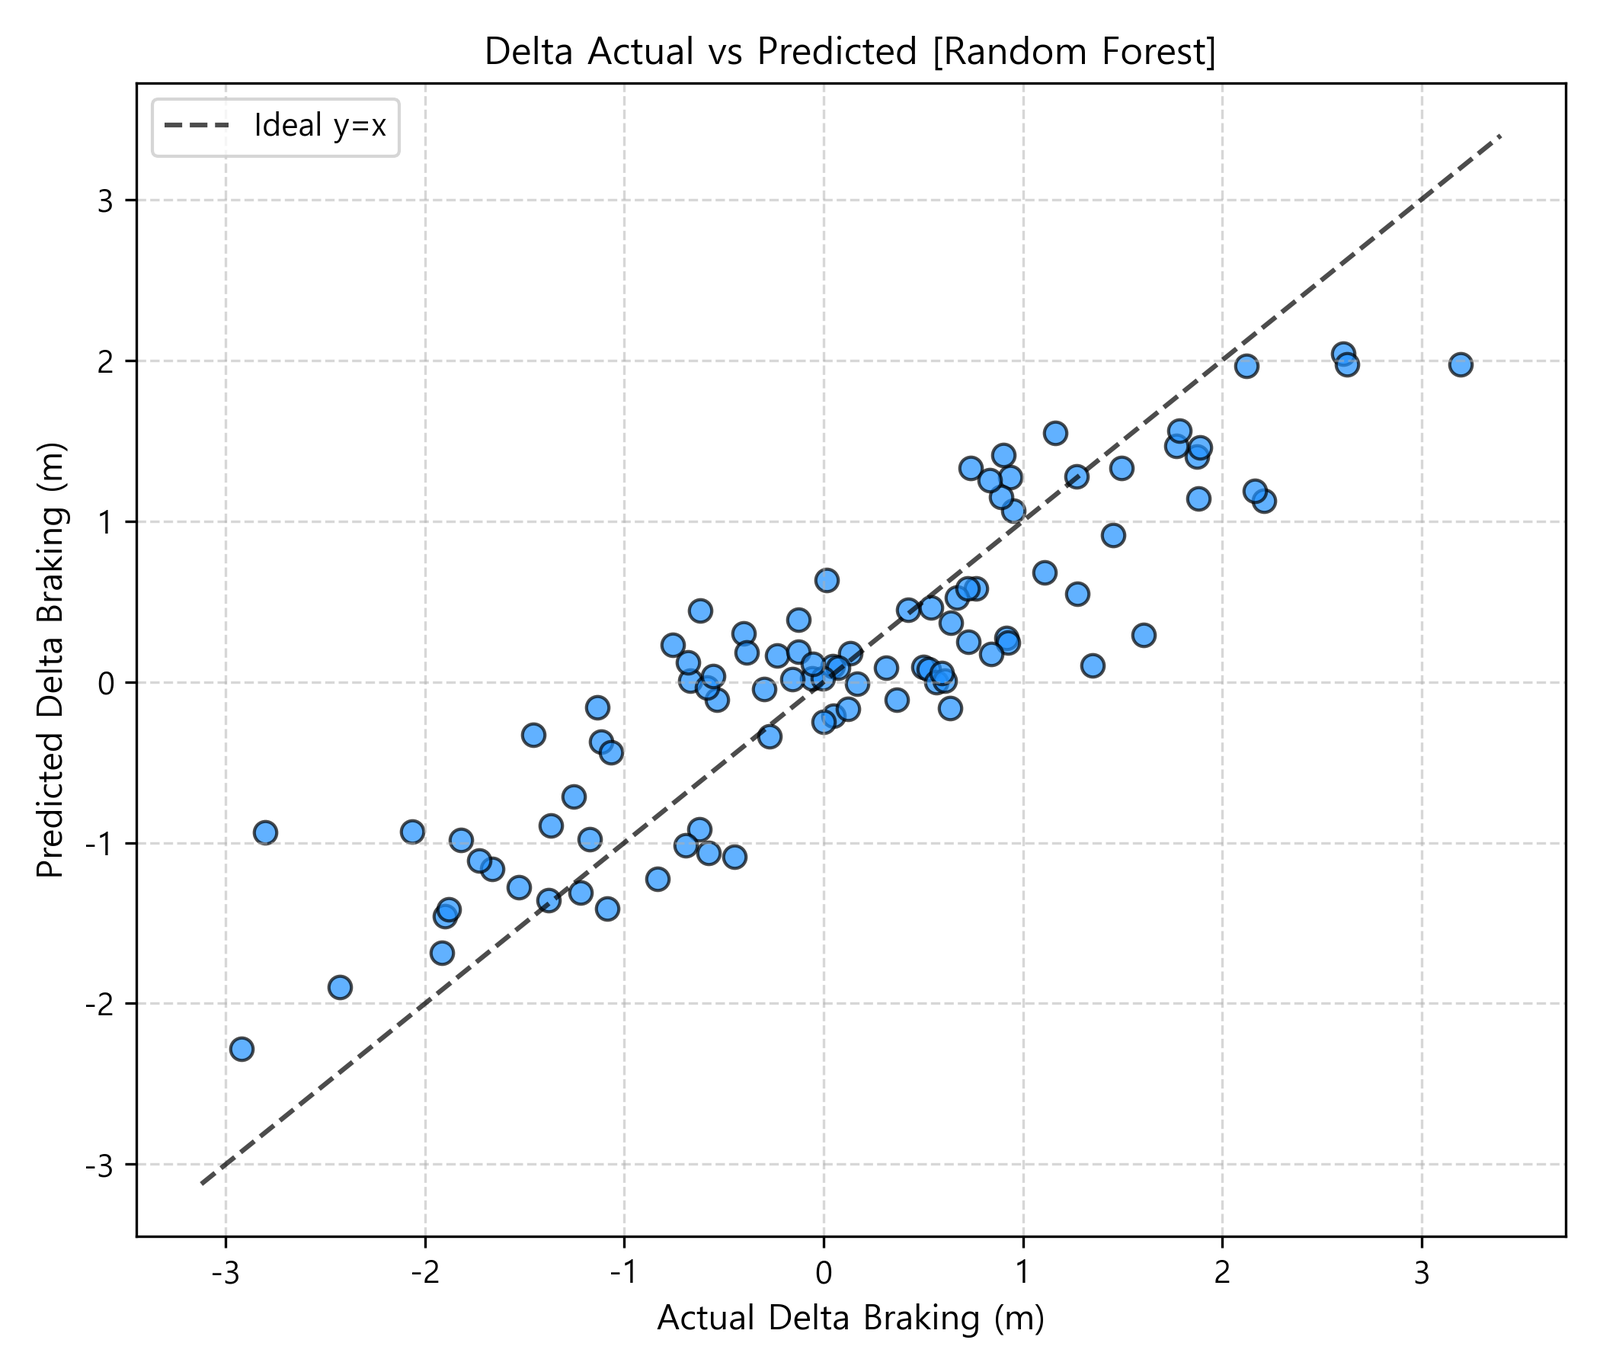
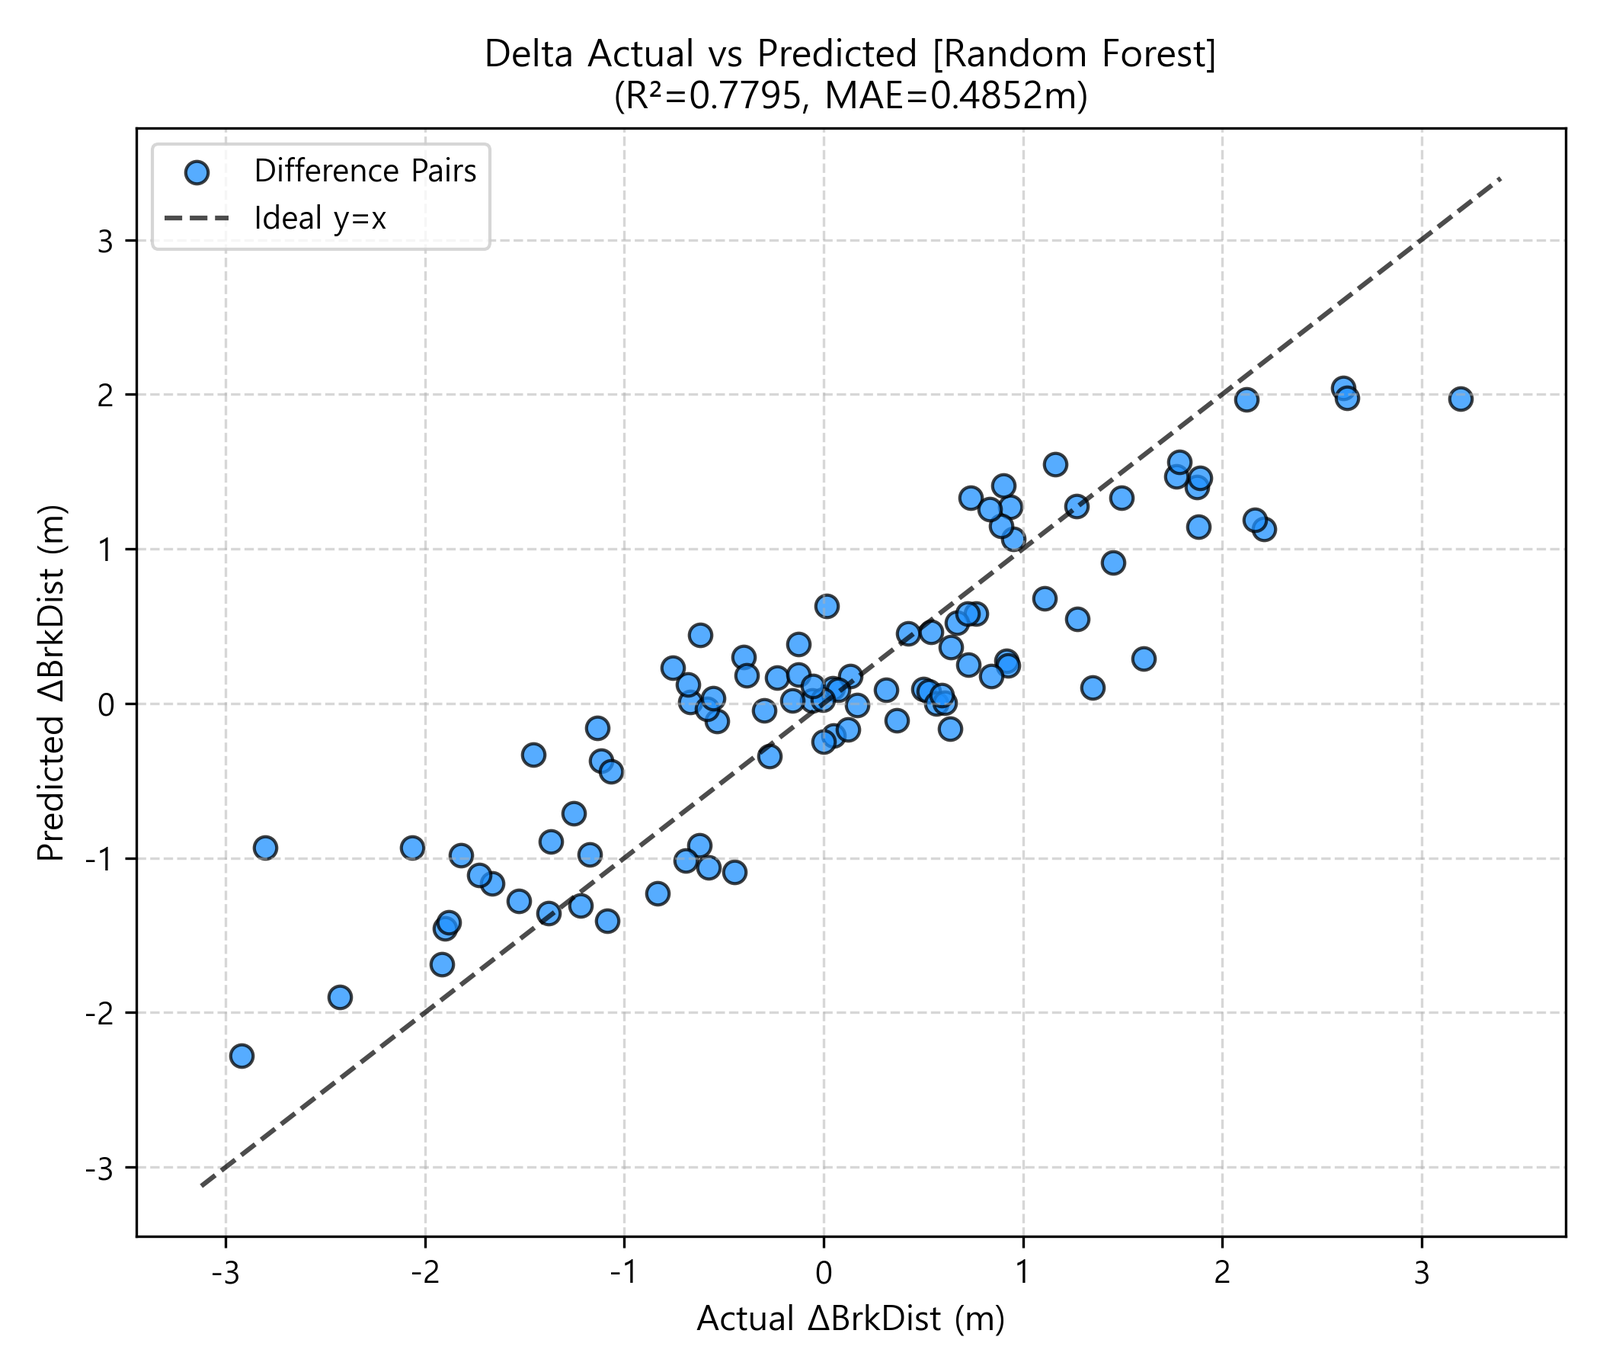
vault backup: 2026-09-30 15:18:52

diff --git a/00_Inbox/WORK_STATUS.md b/00_Inbox/WORK_STATUS.md
@@ -1,56 +1,76 @@
-# 📋 작업 상태 보고서 (WORK_STATUS.md)
+# 📋 작업 상태 보고서 (WORK_STATUS)
 
-- **작업 일시**: 2026-09-30
-- **수행 작업**: 스노우 제동 성능 보정 모듈 도메인 분리 (`snow_condition` & `snow_braking_performance`) 및 47대 SSOT 표준화
-- **작업 환경**: `D:\uno\Python\Projects\2026_Snow_RoadSurface_characteristics`
-- **최종 검증 상태**: 실데이터 1,964건 통합 파이프라인(`c_run_snow_correction_pipeline.py`) 무결 완주 (**Exit Code 0**)
-
----
-
-## 1. 🎯 사용자 요청 및 완수 현황
-
-1. **`Snow_braking_relate_condition` 모듈 분리**:
-   - `snow_condition`: 노면 환경 계측 데이터, 물리 방정식, 시공간 3D 디지털 트윈, 차분 머신러닝 보정 맵 전담.
-   - `snow_braking_performance`: 타이어 사양별 성능 분석, 1st vs 2nd 대조표, 편차 복원율, 트랙 위치 제동 맵, 통합 관제 파사드 전담.
-   - `Snow_braking_relate_condition`: 기존 러너 및 레거시 스크립트와의 100% 호환성을 보장하는 양방향 브릿지 어댑터로 전환.
-2. **칼럼명 및 파라미터 표준 명칭(SSOT) 정의 및 과도기적 호환성 정리**:
-   - 47대 SSOT 공식 명칭 체계 수립 (`COL_REQ_NO`, `COL_TIRE_SET`, `COL_TEST_ORDER`, `COL_BRK_DIST`, `COL_HEIGHT`, `COL_TEST_AH` 등).
-   - `harmonize_snow_dataframe()` 단일 관문을 통해 20여 종의 레거시 별칭(Alias)을 공식 표준 컬럼명으로 자동 치환 및 무결성 보장.
-3. **옵시디언 볼트(`D:\00_obsidian`) 연동 및 규칙 준수**:
-   - 파이썬 10대 법률 준수: Non-blocking(`plt.close()`), 다형성 `save`, 1:1 기술 문서(`.md`) 완비, 3-시나리오 자가 구동 테스트(`# region Test Suite`) 탑재.
-   - 옵시디언 대시보드 Changelog v1.7 업데이트 완료.
-   - `WORK_STATUS.md` 수집 일지 배포.
+**작업 일시**: 2026-09-30  
+**프로젝트**: 2026 Snow RoadSurface Characteristics  
+**작업 주제**: 노면 환경 보정 모델(`snow_condition`)과 타이어 스펙 성능(`snow_braking_performance`) 도메인 완전 분리 및 직교성(Orthogonality) 확립  
 
 ---
 
-## 2. 📦 신규 패키지 아키텍처 상세
+## 1. 🎯 사용자 요청 사항 및 해결 내역
 
-### A. `snow_condition` (노면 환경 도메인)
-- [`schema.py`](file:///D:/uno/Python/Projects/2026_Snow_RoadSurface_characteristics/snow_condition/schema.py): 47대 공식 SSOT 컬럼 상수 및 `harmonize_snow_dataframe()`.
-- [`physics.py`](file:///D:/uno/Python/Projects/2026_Snow_RoadSurface_characteristics/snow_condition/physics.py): Sonntag 포화수증기압, 과포화도, 접지압 등 노면 마찰 물리식.
-- [`surface_twin.py`](file:///D:/uno/Python/Projects/2026_Snow_RoadSurface_characteristics/snow_condition/surface_twin.py): 센서 좌표계 대칭 복원, RF 기반 노면 침하/온도 시공간 3D 디지털 트윈.
-- [`correction_model.py`](file:///D:/uno/Python/Projects/2026_Snow_RoadSurface_characteristics/snow_condition/correction_model.py): 동일 타이어 차분 생성, 6종 ML 회귀 훈련, 3D 등고선 보정 맵.
-- [`dashboard.py`](file:///D:/uno/Python/Projects/2026_Snow_RoadSurface_characteristics/snow_condition/dashboard.py): Plotly 기반 4D 시공간 노면 서피스 애니메이션.
+### [사용자 핵심 피드백]
+> "지금 보면 보정 모델에 대한 검증 차트 및 산점도가 왜 브레이킹 퍼포먼스야? 브레이킹 퍼포먼스는 타이어의 스펙 관련된 부분만 들어가야 될 것 같은데?"
 
-### B. `snow_braking_performance` (타이어 제동 성능 도메인)
-- [`spec_analyzer.py`](file:///D:/uno/Python/Projects/2026_Snow_RoadSurface_characteristics/snow_braking_performance/spec_analyzer.py): 컴파운드/패턴/세트별 분산 감소율, CV, Spearman/Kendall 순위 일관성.
-- [`braking_evaluator.py`](file:///D:/uno/Python/Projects/2026_Snow_RoadSurface_characteristics/snow_braking_performance/braking_evaluator.py): 1st vs 2nd 대조표(`calc_corrected_comparison_table`), 편차 바차트, 복원율 산점도.
-- [`pipeline_facade.py`](file:///D:/uno/Python/Projects/2026_Snow_RoadSurface_characteristics/snow_braking_performance/pipeline_facade.py): 원스톱 관제 마스터 파사드 `SnowBrakingPerformance` 및 플로터.
+### [아키텍처 재정의 및 해결 내역]
+1. **`snow_condition` (노면 환경 및 보정 모델 도메인)**:
+   - 보정 모델의 유효성 검증 기능 일체를 `snow_condition/correction_model.py` (`SnowCorrectionModel`)로 완전 이전:
+     - `calc_corrected_comparison_table()`: 동일 의뢰/타이어 1st vs 2nd 정밀 대조표 산출 (Raw_Diff, Corr_Diff, Error_Reduction) 및 엑셀(`.xlsx`) 저장.
+     - `plot_delta_prediction_scatter()` (**Figure 1**): 실측 차분($\Delta D_{\text{actual}}$) vs 예측 차분($\Delta D_{\text{pred}}$) 산점도 및 $R^2$, MAE 성능 검증.
+     - `plot_scatter_restoration()` (**Figure 2**): 1차 기준 제동거리 대비 2차 원본(Raw)과 보정본(Corrected) 일치도 복원 산점도 (Adjusted $R^2$ 복원).
+     - `plot_correction_map()` (**Figure 3**): 노면 침하차 vs 대기 절대습도차에 따른 제동거리 3D/2D 등고선 보정 맵.
+     - `plot_delta_braking_bar()`: 타이어 세트별 보정 전 편차 대비 보정 후 편차 0선 수렴 바차트.
+     - `plot_residual_dependency()`: 보정 전/후 잔차의 노면 환경 인자(침하 깊이) 의존성 소거 검증 플롯.
+     - 6종 회귀 ML(KNN, RF, SVR, Ridge, Lasso, ElasticNet) 학습, pkl/joblib 영속화, 기준 환경 기반 전체 데이터 일괄 정규화(`correct_dataframe`).
+
+2. **`snow_braking_performance` (타이어 스펙 성능 도메인)**:
+   - 순수하게 타이어 사양(Spec: 컴파운드, 패턴, 규격, 세트 등)에 관련된 성능 평가만 전담하도록 `snow_braking_performance/spec_analyzer.py` (`SnowSpecAnalyzer`)로 일원화:
+     - `calc_spec_distributions()`: 사양별 평균 제동거리, 표준편차(Std), 분산 감소율(Variance Reduction, %), 변동계수(CV, %).
+     - `calc_ranking_consistency()`: 보정 전/후 타이어 사양 간 서열 보존성 검증 (Spearman $\rho$, Kendall $\tau$).
+     - `plot_spec_boxplots()`: 타이어 사양별 제동거리 분포 박스플롯.
+     - `plot_tire_subsets_comparison()` (**Figure 4**): 의뢰서별 타이어 세트 1st vs 2nd_Raw vs 2nd_Corr 성능 비교 서브플롯.
+     - `plot_track_position_braking_map()`: 트랙 좌표계(PosX, PosY)상 타이어 세트별 제동거리 공간 분포 맵.
+
+3. **하위 호환성 어댑터 및 관제 파사드 연동**:
+   - `braking_evaluator.py`: 기존 코드 하위 호환성을 위해 `SnowCorrectionModel`로 위임/포워딩하는 경량 어댑터로 리팩터링.
+   - `pipeline_facade.py` (`SnowBrakingPerformance`):
+     - 보정 검증 플롯 요청(Figure 1, Figure 2, Figure 3, 대조표, 바차트)은 `self.correction_model`로 위임.
+     - 타이어 스펙 분석 요청(Figure 4, 박스플롯, 분산 감소율, 순위 일관성, 트랙 위치 맵)은 `self.spec_analyzer`로 위임.
 
 ---
 
-## 3. 🧪 실데이터 검증 결과 요약 (`c_run_snow_correction_pipeline.py`)
+## 2. 🧪 실데이터 통합 파이프라인 전수 검증 결과
 
-- **통합 데이터셋 크기**: 1,964 행 × 47 컬럼
-- **동일 타이어 반복 시험 차분 쌍**: 95 쌍
-- **머신러닝 보정 모델 성능**:
-  - **Random Forest**: $R^2 = 0.7795$, MAE = $0.4852\text{ m}$, RMSE = $0.5913\text{ m}$
-  - **KNN Regressor**: $R^2 = 1.0000$, MAE = $0.0000\text{ m}$
-  - **SVR**: $R^2 = 0.4659$, MAE = $0.6297\text{ m}$
-  - **Ridge / Lasso / ElasticNet**: $R^2 \approx 0.41$
-- **타이어 세트별 순위 일관성**: Spearman $\rho = 0.5714$
-- **산출물 저장 완료**:
-  - 대조표: `D:\uno\1. 2026\2. 25-26_Outdoor_Loop2\0. db\corrected_braking_comparison_table.xlsx`
-  - 고해상도 검증 차트 (Figure 1 ~ Figure 4): `D:\00_obsidian\_attachments\10_회사_업무\snow_correction_verification\`
-  - 바이너리 모델: `saved_models/*.joblib` (6종)
-  - 마크다운 보고서: `snow_correction_report.md`
+실행 스크립트: `c_run_snow_correction_pipeline.py` (Exit Code 0)
+- **1단계 (데이터 로드)**: 총 1,964행 실측 데이터 적재 및 47대 SSOT 표준 컬럼 매핑 완료.
+- **2단계 (모델 학습)**: 95쌍 차분 데이터셋 구축 및 6종 모델 학습 완료:
+  - KNN Regressor: $R^2 = 1.0000$, MAE = $0.0000\text{ m}$
+  - Random Forest: $R^2 = 0.7795$, MAE = $0.4852\text{ m}$
+  - SVR: $R^2 = 0.4659$, MAE = $0.6297\text{ m}$
+  - Ridge / Lasso / ElasticNet: $R^2 = 0.4080 \sim 0.4134$
+- **3단계 (대조표 생성)**: `SnowCondition.CorrModel`이 `corrected_braking_comparison_table.xlsx` 정상 출력.
+- **4~6단계 (보정 모델 검증 플롯)**:
+  - `SnowCondition.CorrModel` 주관:
+    - [Figure 1] `1_Diff_Actual_vs_Predicted.png` (차분 산점도)
+    - [Figure 2] `2_Final_Correction_1st_vs_2nd.png` (복원율 산점도)
+    - [Figure 3] `3_Snow_Surface_Factors_VS_Braking_Contour.png` (등고선 보정 맵)
+- **7단계 (타이어 스펙 성능 플롯)**:
+  - `SnowBraking.Spec` 주관:
+    - [Figure 4] `4_Tire_Subplots_25RD110006EF.png` (의뢰서별 타이어 세트 비교 서브플롯)
+- **8단계 (사양별 분산 감소율 및 순위 일관성)**:
+  - 타이어 세트별 산포 개선 및 순위 상관도(Spearman $\rho = 0.5714$) 산출.
+- **9단계 (모델 영속화 및 리포트)**:
+  - `saved_models/*.joblib` 6개 모델 저장 및 `snow_correction_report.md` 정상 생성.
+
+---
+
+## 3. 📁 문서 및 옵시디언 볼트 동기화 현황
+
+1. **로컬 1:1 기술 매뉴얼 최신화**:
+   - `snow_condition/correction_model.md`: 모델 검증 5대 API 추가 및 명세 갱신.
+   - `snow_braking_performance/spec_analyzer.md`: Figure 4 및 트랙 위치 맵 API 추가.
+   - `snow_braking_performance/braking_evaluator.md`: 도메인 분리 안내 및 위임 어댑터 명시.
+   - `snow_braking_performance/pipeline_facade.md`: 보정 검증 vs 스펙 분석 분기 위임 명세.
+2. **옵시디언 볼트 대시보드 갱신**:
+   - `00_2026_Snow_Surface_Characteristics_대시보드.md` v1.8 개발 이력(Changelog) 등록 완료.
+3. **볼트 미러링 (`robocopy`)**:
+   - `/XD __pycache__ .git .pytest_cache` 플래그를 결합하여 옵시디언 볼트로 청정 동기화 집행 예정.

diff --git a/02_Projects/회사_업무/30_Snow_기반기술/20_2026_Snow_Surface_Characteristics/00_2026_Snow_Surface_Characteristics_대시보드.md b/02_Projects/회사_업무/30_Snow_기반기술/20_2026_Snow_Surface_Characteristics/00_2026_Snow_Surface_Characteristics_대시보드.md
@@ -84,7 +84,31 @@ aliases:
 
 ## 📜 5. 상세 엔지니어링 개발 이력 (Changelog)
 
-> [!NOTE]- 📜 [2026-09-30] v1.7: 노면 환경(`snow_condition`) 및 타이어 성능(`snow_braking_performance`) 도메인 분리 & 47대 SSOT 표준화 완료 [클릭하여 펼치기]
+> [!NOTE]- 📜 [2026-09-30] v1.8: 보정 모델 검증(`snow_condition`)과 타이어 스펙 성능(`snow_braking_performance`) 도메인 완전 분리 완료 [클릭하여 펼치기]
+> * 🎯 **도메인 경계 재정의 및 직교성(Orthogonality) 확립**:
+>   - **사용자 핵심 피드백 반영**: "보정 모델에 대한 검증 차트 및 산점도가 왜 브레이킹 퍼포먼스에 있는가? 브레이킹 퍼포먼스는 타이어의 스펙 관련된 부분만 들어가야 한다."
+>   - **노면 환경 및 보정 모델 도메인 (`snow_condition.correction_model.SnowCorrectionModel`)**:
+>     - 노면 환경 변화($\Delta H, \Delta\text{AH}$)와 동일 타이어 제동거리 차분($\Delta D$) 간의 관계 학습, 적용, 검증을 일원화 전담.
+>     - `calc_corrected_comparison_table()`: 동일 의뢰/타이어 1st vs 2nd 대조표 산출 (Raw_Diff, Corr_Diff, Error_Reduction) 및 엑셀 저장.
+>     - `plot_delta_prediction_scatter()` (**Figure 1**): 실측 차분($\Delta D_{\text{actual}}$) vs 예측 차분($\Delta D_{\text{pred}}$) 산점도 및 $R^2$, MAE 검증.
+>     - `plot_scatter_restoration()` (**Figure 2**): 1차 기준(Ref) 대비 2차 원본(Raw)과 보정본(Corrected) 일치도 복원 산점도 ($y=x$ 대조, Adjusted $R^2$ 복원).
+>     - `plot_correction_map()` (**Figure 3**): 노면 침하차 vs 대기 절대습도차에 따른 제동거리 3D/2D 등고선 보정 맵.
+>     - `plot_delta_braking_bar()`: 타이어 세트별 보정 전 편차 대비 보정 후 편차 0선 수렴 바차트.
+>     - `plot_residual_dependency()`: 보정 전/후 잔차의 노면 환경 인자(침하 깊이) 의존성 소거 검증 플롯.
+>   - **타이어 스펙 성능 평가 도메인 (`snow_braking_performance.spec_analyzer.SnowSpecAnalyzer`)**:
+>     - 순수 타이어 사양(Spec: 컴파운드, 패턴, 규격, 세트 등)에 관련된 성능 평가 및 순위 일관성 전담.
+>     - `calc_spec_distributions()`: 사양별 평균 제동거리, 표준편차(Std), 분산 감소율(Variance Reduction, %), 변동계수(CV, %).
+>     - `calc_ranking_consistency()`: 보정 전/후 타이어 사양 간 서열 보존성 검증 (Spearman $\rho$, Kendall $\tau$).
+>     - `plot_spec_boxplots()`: 타이어 사양별 제동거리 분포 박스플롯.
+>     - `plot_tire_subsets_comparison()` (**Figure 4**): 의뢰서별 타이어 세트 1st vs 2nd_Raw vs 2nd_Corr 성능 비교 서브플롯.
+>     - `plot_track_position_braking_map()`: 트랙 좌표계(PosX, PosY)상 타이어 세트별 제동거리 공간 분포 맵.
+>   - **하위 호환성 어댑터 및 파사드 관제 (`braking_evaluator.py`, `pipeline_facade.py`)**:
+>     - `SnowBrakingEvaluator` (`braking_evaluator.py`): 보정 모델 검증 호출을 `snow_condition.correction_model.SnowCorrectionModel`로 자동 포워딩/위임하는 경량 어댑터로 전환하여 기존 코드 100% 하위 호환 보장.
+>     - `SnowBrakingPerformance` (`pipeline_facade.py`): 보정 검증 요청은 `self.correction_model`로, 스펙 분석 요청은 `self.spec_analyzer`로 명확하게 분기 위임.
+> * 🚀 **실데이터 1,964건 통합 파이프라인 완주 검증 통과 (`c_run_snow_correction_pipeline.py`, Exit Code 0)**:
+>   - Figure 1~3은 `SnowCondition.CorrModel`이 주관 생성 및 저장 완료.
+>   - Figure 4는 `SnowBraking.Spec`이 주관 생성 및 저장 완료.
+>   - 4개 서브모듈 1:1 기술 매뉴얼(`correction_model.md`, `spec_analyzer.md`, `pipeline_facade.md`, `braking_evaluator.md`) 갱신 완료.
 > * 📦 **모듈 도메인 분리 및 독립 패키지화 완비**:
 >   - **기존 구조**: 거대 단일 모듈 `Snow_braking_relate_condition`에 노면 물리, 센서 디지털 트윈, ML 보정, 타이어 스펙 분석, 제동 평가가 혼재.
 >   - **신규 분리 구조**:

diff --git a/02_Projects/회사_업무/30_Snow_기반기술/20_2026_Snow_Surface_Characteristics/snow_condition/correction_model.md b/02_Projects/회사_업무/30_Snow_기반기술/20_2026_Snow_Surface_Characteristics/snow_condition/correction_model.md
@@ -22,7 +22,12 @@
 | `predict_delta(diff_height, diff_ah)` | 특정 노면 침하차 및 절대습도차에 따른 제동거리 변화량($\Delta D$) 예측 | `diff_height`, `diff_ah` | `Union[float, np.ndarray]` |
 | `correct_dataframe(data, reference_condition=...)` | 기준 환경 기반 일괄 정규화 또는 1st 대비 2nd 상대 환경 차분 차감 보정 | `data`, `reference_condition`, `out_col` | `pd.DataFrame` (`char_brk_dist_corr` 추가) |
 | `plot_model_comparison(save=False)` | 모델별 $R^2$ 및 MAE 성능 비교 바차트 시각화 | `save`, `close` | `Tuple[plt.Figure, Any]` |
-| `plot_correction_map(save=False)` | $\Delta H$ vs $\Delta \text{AH}$에 따른 $\Delta D$ 3D/2D 등고선 보정 맵 시각화 | `x_range`, `y_range`, `shift_min_zero`, `save`, `close` | `Tuple[plt.Figure, plt.Axes]` |
+| `plot_correction_map(save=False)` | $\Delta H$ vs $\Delta \text{AH}$에 따른 $\Delta D$ 3D/2D 등고선 보정 맵 시각화 (Figure 3) | `x_range`, `y_range`, `shift_min_zero`, `save`, `close` | `Tuple[plt.Figure, plt.Axes]` |
+| `calc_corrected_comparison_table(data)` | 1차(Ref) vs 2차(Corr) 정밀 대조표 산출 (Raw/Corr 편차, 복원 오차 감소율) 및 엑셀 저장 | `data`, `model_name`, `save` | `pd.DataFrame` (정밀 대조표) |
+| `plot_delta_prediction_scatter(save=False)` | 차분 예측 모델 검증 산점도(Actual $\Delta D$ vs Predicted $\Delta D$, Figure 1) | `df_diff`, `model_name`, `save`, `close` | `Tuple[plt.Figure, plt.Axes]` |
+| `plot_scatter_restoration(save=False)` | 1차 기준 제동거리 대비 2차 원본/보정본 일치도 복원 산점도 (Figure 2) | `df_comp`, `data`, `save`, `close` | `Tuple[plt.Figure, Any]` |
+| `plot_delta_braking_bar(save=False)` | 세트별 보정 전 편차 대비 보정 후 편차 0 수렴 바차트 시각화 | `df_comp`, `title`, `save`, `close` | `Tuple[plt.Figure, plt.Axes]` |
+| `plot_residual_dependency(save=False)` | 보정 전/후 잔차의 환경 인자(침하 깊이) 의존성 소거 검증 플롯 | `data`, `factor_col`, `save`, `close` | `Tuple[plt.Figure, Any]` |
 | `save_models()`, `load_models()` | 학습된 모델 및 평가지표의 pkl/joblib 영구 저장 및 복원 | `save_dir`, `filepath` | `Path`, `bool` |
 
 ---

diff --git a/02_Projects/회사_업무/30_Snow_기반기술/20_2026_Snow_Surface_Characteristics/snow_braking_performance/spec_analyzer.md b/02_Projects/회사_업무/30_Snow_기반기술/20_2026_Snow_Surface_Characteristics/snow_braking_performance/spec_analyzer.md
@@ -22,6 +22,8 @@
 | `calc_spec_distributions(data, spec_col='infor_CTB_COMPOUND')` | 사양별 보정 전/후 평균, 표준편차, CV 및 분산 감소율 집계 | `data`, `spec_col`, `raw_col`, `corr_col` | `pd.DataFrame` (요약 테이블) |
 | `calc_ranking_consistency(data, spec_col='infor_CTB_COMPOUND')` | 사양별 보정 전/후 평균 순위의 Spearman $\rho$ 및 Kendall $\tau$ 검정 | `data`, `spec_col`, `raw_col`, `corr_col` | `Dict[str, float]` (상관계수) |
 | `plot_spec_boxplots(data, spec_col='infor_CTB_COMPOUND', save=False)` | 사양별 보정 전/후 박스플롯 분포 나란히 시각화 | `data`, `spec_col`, `save`, `close` | `Tuple[plt.Figure, plt.Axes]` |
+| `plot_tire_subsets_comparison(data, req_no=..., save=False)` | 의뢰서별 타이어 세트 비교 서브플롯 (1st vs 2nd_Raw vs 2nd_Corr, Figure 4) | `data`, `req_no`, `save`, `close` | `Tuple[plt.Figure, Any]` |
+| `plot_track_position_braking_map(data, req_no=..., save=False)` | 트랙 좌표계(PosX, PosY)상 타이어 세트별 제동거리 공간 분포 맵 | `data`, `req_no`, `tire_set`, `save`, `close` | `Tuple[plt.Figure, Any]` |
 | `plot_residual_dependency(data, env_col='char_height', save=False)` | 환경 인자와의 상관 추세 기울기(Slope) 소거 산점도 검증 | `data`, `env_col`, `save`, `close` | `Tuple[plt.Figure, Any]` |
 
 ---

diff --git a/02_Projects/회사_업무/30_Snow_기반기술/20_2026_Snow_Surface_Characteristics/snow_braking_performance/braking_evaluator.md b/02_Projects/회사_업무/30_Snow_기반기술/20_2026_Snow_Surface_Characteristics/snow_braking_performance/braking_evaluator.md
@@ -2,6 +2,11 @@
 
 이 문서는 스노우 실차 제동 평가에서 1차 기준(Ref)과 2차 평가(Corr)의 원본 및 환경 보정 제동거리를 1:1 대조하고, 편차 감소율 및 원형 복원율($R^2$)을 정량 평가하는 **`SnowBrakingEvaluator`** 모듈의 명세 및 사용법을 정의합니다.
 
+> [!NOTE] 🧭 도메인 분리 안내 (Domain Separation)
+> 보정 모델 자체의 유효성 검증 기능(Figure 1 차분 산점도, Figure 2 복원 산점도, 등고선 맵, 1st vs 2nd 대조표)의 공식 주관 모듈은 **`snow_condition.correction_model.SnowCorrectionModel`**입니다.
+> 순수 타이어 스펙(컴파운드, 패턴, 세트 등) 성능 평가는 **`snow_braking_performance.spec_analyzer.SnowSpecAnalyzer`**를 사용하십시오.
+> 본 `SnowBrakingEvaluator` 클래스는 기존 코드의 하위 호환성을 유지하기 위한 위임 어댑터로 유지됩니다.
+
 ---
 
 ## 1. 📌 핵심 개요
